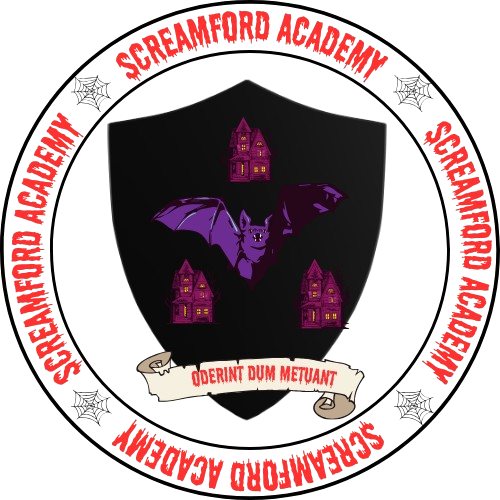
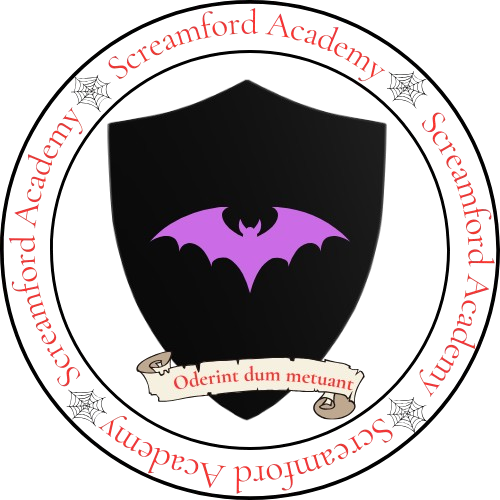
new style changes, specially colors and coat of arms

diff --git a/frontend/src/App.css b/frontend/src/App.css
@@ -1,3 +1,4 @@
+@import url('https://fonts.googleapis.com');
 .App {
   text-align: center;
 }
@@ -8,7 +9,8 @@
 }
 
 html, body, #root{
-  background-color: #c7c7c7;
+  background-color: #2c2c2c;
+  color: #d2d1d1;
 }
 
 .banner{
@@ -23,6 +25,7 @@ html, body, #root{
   align-items: center;
   font-size: large;
   font-family:Arial, Helvetica, sans-serif;
+  width:100%;
 }
 
 @media (prefers-reduced-motion: no-preference) {
@@ -57,6 +60,13 @@ html, body, #root{
 
 h1{
   padding-bottom: 30px;
+  font-family: 'EB Garamond', serif;
+  letter-spacing: 1px;
+}
+
+h2{
+  font-family: 'EB Garamond', serif;
+  letter-spacing: 1px;
 }
 
 .navbar-user {
@@ -71,6 +81,22 @@ h1{
   height: calc(100vh - 90px); /* Restamos la altura del header con espacios */
   object-fit: cover; /* Cubre el área manteniendo la proporción */
 }
+
+#overlay-content, #overlay-content-forest {
+  position: absolute;
+  top: 50%;
+  left: 50%;
+  transform: translate(-50%, -50%); /* Centra el contenido */
+  color: white;
+  z-index: 10; /* Asegura que esté por encima de la imagen */
+}
+
+#coat-overlay, #coat-overlay-forest {
+  width: 200px;
+  height: auto;
+  margin-top: 10px;
+}
+
 
 /*Schedule table styles*/
 .schedule-table {
@@ -122,9 +148,9 @@ h1{
 }
 
 /*Card styles*/
-.card {
-  background-color: #1a1a1a !important;
-  color: #f5f5f5 !important;
+#sectionCard {
+  background-color: #070707;
+  color: #f5f5f5;
   box-shadow: 0 4px 10px rgba(0,0,0,0.3);
   transition: transform 0.2s ease, box-shadow 0.2s ease;
 }
@@ -139,6 +165,12 @@ h1{
   transform: translateY(-5px);
   box-shadow: 0 8px 20px rgba(0,0,0,0.5);
 }
+.card-title{
+  font-family: 'Garamond', serif;
+  font-size: 1.5rem;
+  margin-bottom: 0.5rem;
+  letter-spacing: 1px;
+}
 
 /* Responsive: the image height is lower for the phone */
 @media (max-width: 768px) {
@@ -147,3 +179,21 @@ h1{
   }
 }
 
+/*So that the footer is always down, even if the content is not enough to fill the screen*/
+footer{
+  bottom: 0;
+  width:100%;
+  height:60px;
+}
+
+/*Nav styles when the mouse is on the link*/
+
+#mainNav a:hover,
+#mainNav a:active {
+  color: #a500dc;  
+}
+
+#continue-reading-button, #submit-login-button, #submit-signup-button {
+  background-color: #50016a;
+  color:rgb(211, 211, 211);
+}

diff --git a/frontend/src/components/Hero.js b/frontend/src/components/Hero.js
@@ -8,12 +8,17 @@ export default function Hero(){
   <div class="carousel-inner">
     <div class="carousel-item active">
       <img src={academyPic} className="fullscreen-image"alt="One of the academy buildings"/>
+     <div id="overlay-content">
+      <h2>Screamford Academy</h2>
+      <img src={coatOfArmsPic} alt="Coat of arms" id="coat-overlay" />
+    </div>
     </div>
     <div class="carousel-item">
       <img src={forestPic} className="fullscreen-image" alt="The forest surrounding our campus in Transilvania"/>
+      <div id="overlay-content-forest">
+      <h2>Screamford Academy</h2>
+      <img src={coatOfArmsPic} alt="Coat of arms" id="coat-overlay-forest" />
     </div>
-    <div class="carousel-item">
-      <img src={coatOfArmsPic} className="fullscreen-image" alt="The coat of arms of Screamford Academy"/>
     </div>
   </div>
   <button class="carousel-control-prev" type="button" data-bs-target="#carouselHome" data-bs-slide="prev">

diff --git a/frontend/src/components/SectionCard.js b/frontend/src/components/SectionCard.js
@@ -10,7 +10,7 @@ export default function SectionCard({
 }) {
   return (
       <div  className={`card mb-3 ${horizontal ? "flex-row" : ""}`}
-      style={{ width: horizontal ? "100%" : "18rem" }}>
+      style={{ width: horizontal ? "100%" : "18rem" }} id="sectionCard">
        {imageSource && !horizontal && (
             <img
               src={imageSource}

diff --git a/frontend/src/components/LogInForm.js b/frontend/src/components/LogInForm.js
@@ -59,7 +59,7 @@ export default function LogInForm() {
               required
             />
           </div>
-          <button type="submit" class="btn btn-dark">
+          <button type="submit" class="btn btn-dark" id="submit-login-button">
             Submit
           </button>
           {status && <p>{status}</p>}

diff --git a/frontend/src/components/SignUpForm.js b/frontend/src/components/SignUpForm.js
@@ -94,7 +94,7 @@ export default function SignUpForm() {
           />
         </div>
       </div>
-      <button type="submit" className="btn btn-dark">
+      <button type="submit" className="btn btn-dark" id="submit-signup-button">
         Submit
       </button>
       {status && <p>{status}</p>}

diff --git a/frontend/src/components/Button.js b/frontend/src/components/Button.js
@@ -1,6 +1,6 @@
 export default function Button({text, link, variant = "dark"}) {
   return (
-    <a href={link} className={`btn btn-${variant}`}>
+    <a href={link} className={`btn btn-${variant}`} id="continue-reading-button">
       {text}
     </a>
   )

diff --git a/frontend/src/components/Header.js b/frontend/src/components/Header.js
@@ -30,6 +30,7 @@ export default function Header() {
   return (
     <nav
       className="navbar navbar-expand-lg sticky-top bg-dark border-bottom border-body"
+      id="mainNav"
       data-bs-theme="dark"
       style={{
         display: "flex",
